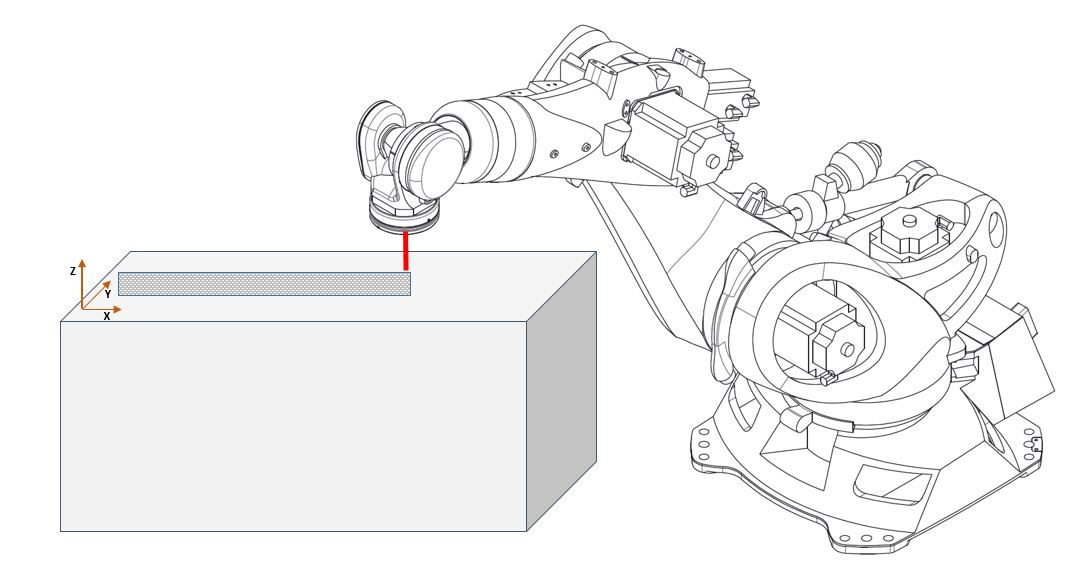
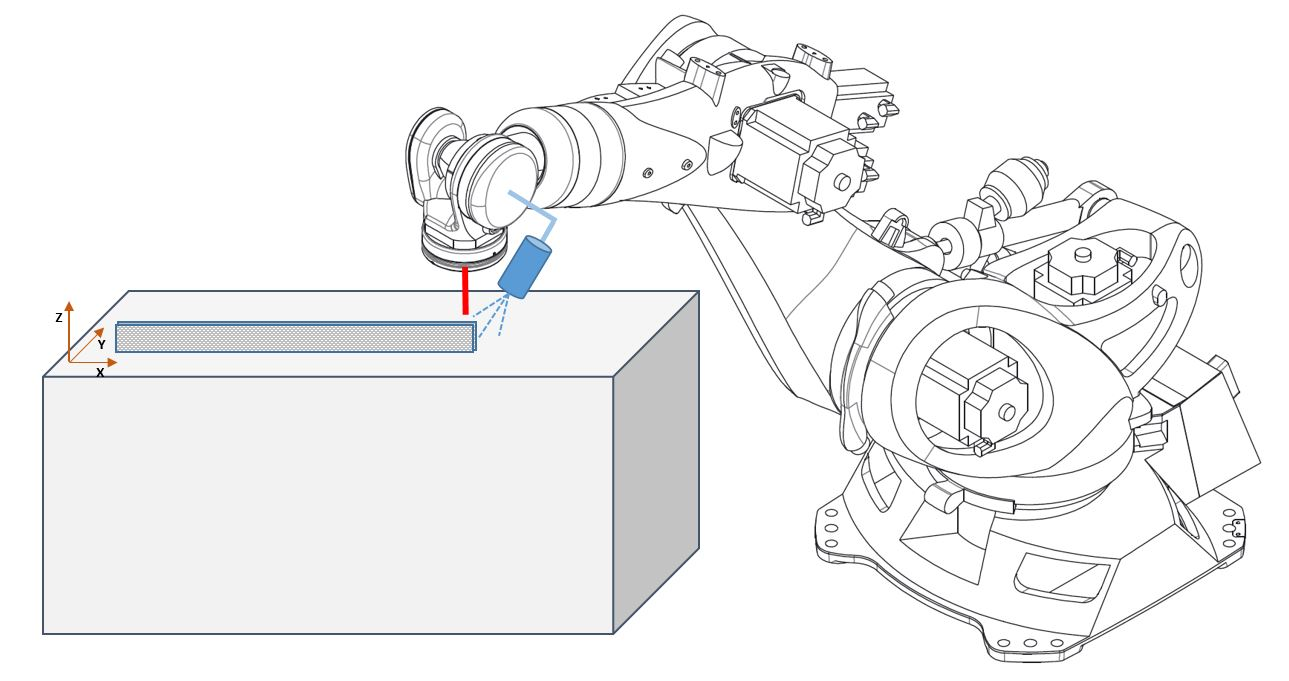
Adding background, assignment sections

Changed region(s): [[0.0312, 0.0297, 0.967, 0.9791]]

diff --git a/README.md b/README.md
@@ -1,1 +1,32 @@
-# sw_candidate_proj3
+# Background
+
+You have joined Relativity Space's mission of building rockets in less than 60 days and have been tasked with building the end to end software for 3D printing rockets autonomously. 
+
+In its roots, as depicted in the diagram below, this system comprises of a robot whose end effector is fitted with multiple sensors and a welder that deposits metal along the path that the robot has been commanded to follow. To correct for any errors along the path, a closed loop controller receives feedback from the sensors and adjusts the robot's position accordingly.
+
+![alt text](images/welding-robot.JPG?raw=true "Robotic Welding System")
+
+# Homework Assignment
+
+The robotic welding system shown above encounters errors along the Y axis that need to be corrected for, based on information received by the sensor that is mounted onto the arm.
+
+Simulate an environment with the following:
+	- Robot: That receives move commands to be executed at 1Hz but randomly misses the target location
+	- Sensors: You can choose any number of sensors and use any mathematical functions to simulate the data sent by the sensor	
+	- Closed loop controller: That sends move commands to the robot and receives sensor inputs that can be used for correcting the path
+	
+The following requirements need to be met with:
+	- Provide a graphical user interface that can be used to turn the sensors on or off
+	- Store the sensor data in a time series database (E.g. Prometheus, InfluxDB)
+	- Use a monitoring tool to visualize the data in real-time (E.g. Grafana, Kibana)
+
+Your work will be evaluated based on how deep into the optional requirements you go:
+	- Build out the sensors and the controller as separate processes that can communicate with each other
+	- Monitor the error along the Y axis in the simulated robot, in real-time
+	- Add an additional feature to the user interface that can be used to turn the controller on or off without breaking the system
+
+You can use any programming language, operating system and off the shelf libraries to build this system out.
+
+Please commit your final code to a public Github repository along with a software design diagram, installation instructions and email back the link to your recruiter.
+
+
